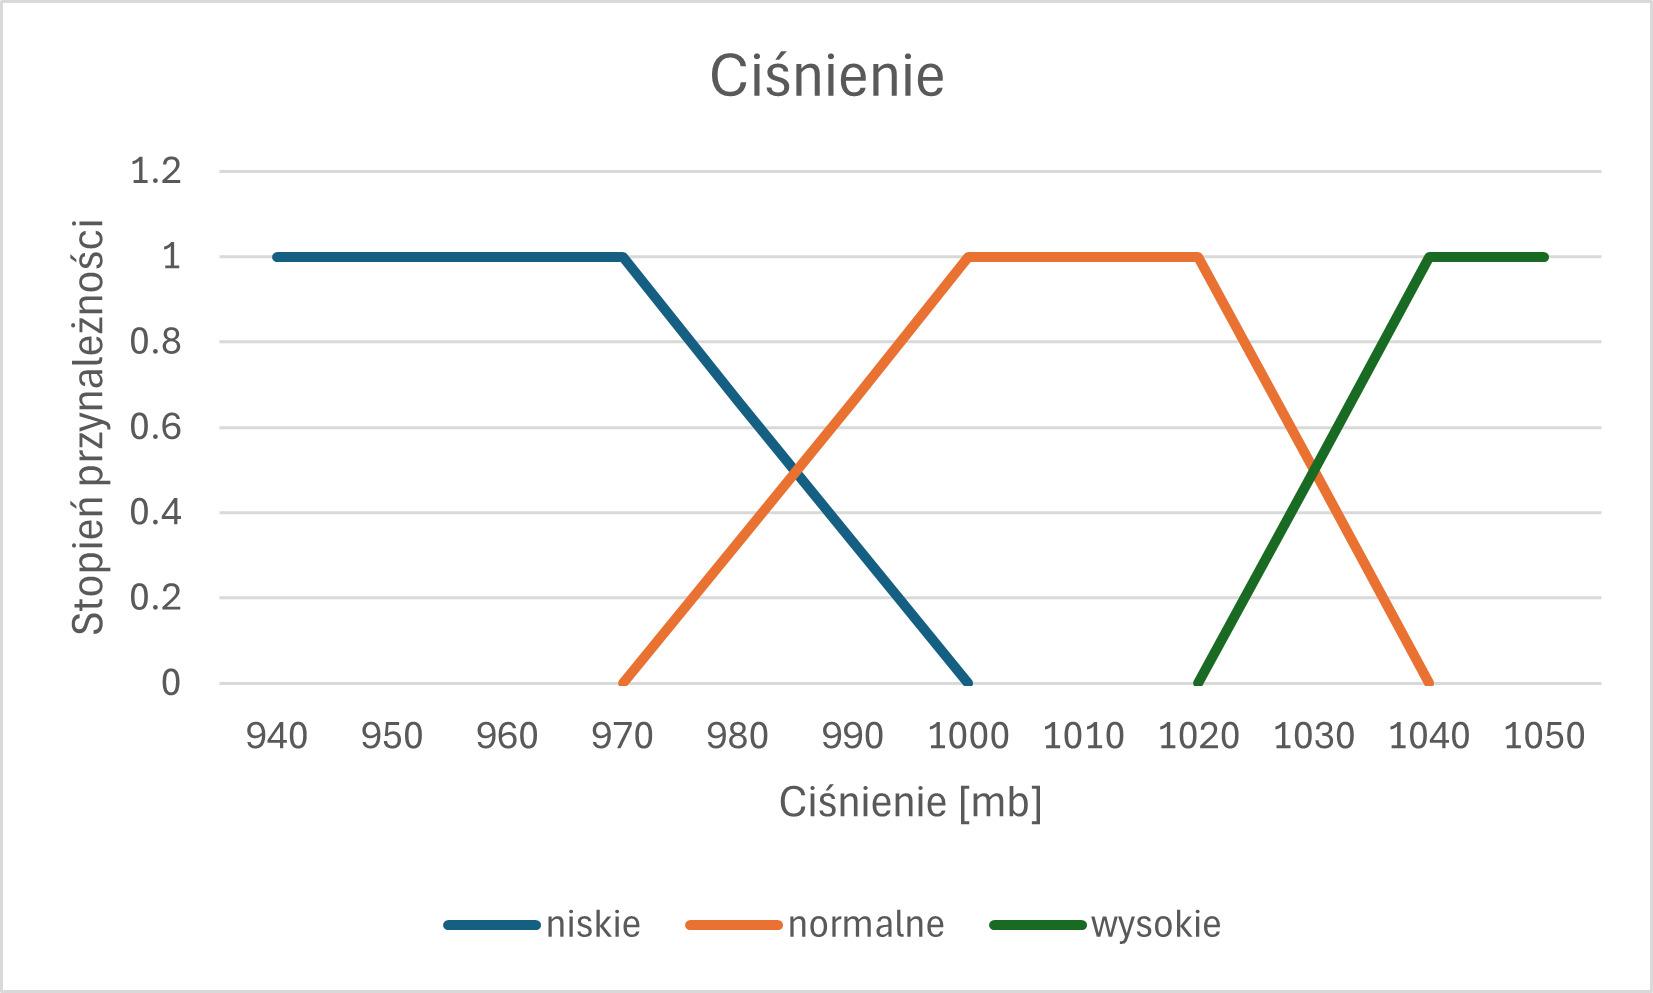
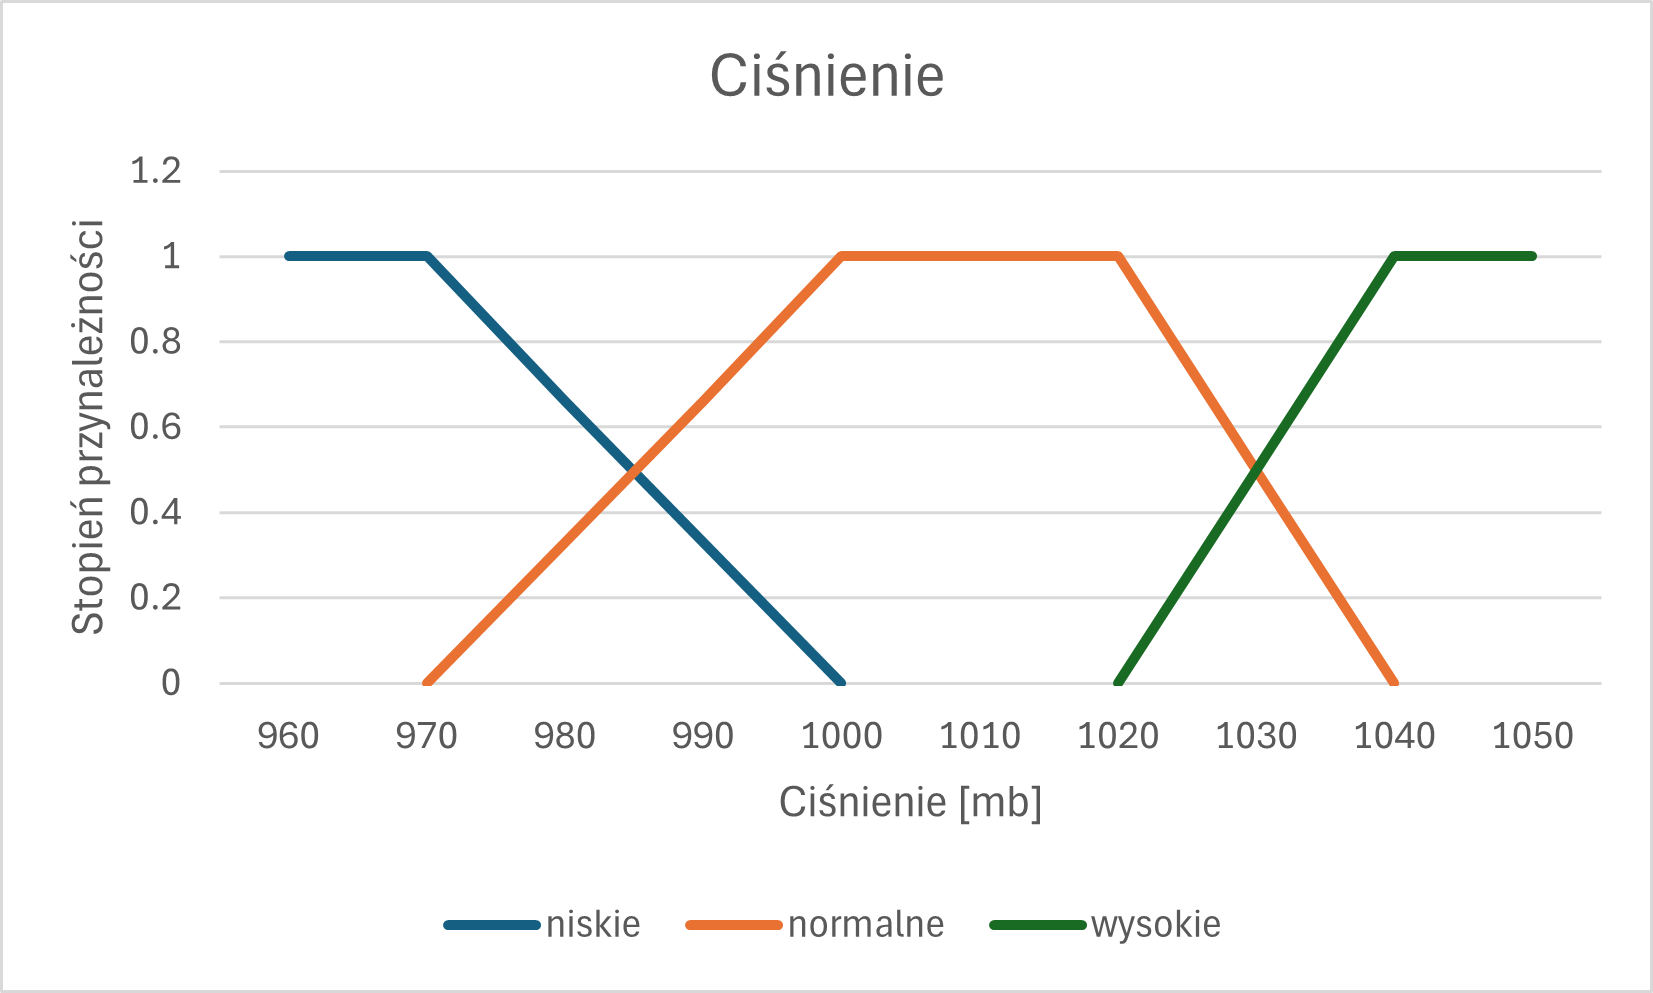
ksr -> two subject summary first form

diff --git a/KSR/Projekt2/ksr/src/main/java/ksr/zad2/KsrApplication.java b/KSR/Projekt2/ksr/src/main/java/ksr/zad2/KsrApplication.java
@@ -29,7 +29,12 @@ public class KsrApplication implements CommandLineRunner {
 	@Override
 	public void run(String... args) {
 		System.out.println("Hello World!");
+//		this.singleSubjectSummary();
+		this.twoSubjectSummary();
+	}
 
+
+	public void singleSubjectSummary() {
 		List<Measurements> allMeasurements = measurementsRepository.findAll();
 		List<Double> temperatures = new ArrayList<>();
 		List<Double> humidities = new ArrayList<>();
@@ -229,23 +234,28 @@ public class KsrApplication implements CommandLineRunner {
 			airTerms.add(airTerm);
 		}
 
+		List<Measurements> measurements = measurementsRepository.findByContinent("Europe");
+//		for (int i = 0; i < 4; i++) {
+//			System.out.println(measurements.get(i).getTimezone());
+//		}
+		System.out.println("Measurements count: " + measurements.size());
 
 		for (Quantifier quantifier : quantifierTerms) {
 			System.out.println(quantifier.getName());
 			System.out.println("--------------------------------------------------");
 //			System.out.println("TEMPERATURES:");
-			for (LinguisticTerm temperatureTerm : carbonTerms) {
-				for (LinguisticTerm dateTerm : visibilityTerms) {
-					Summary summary = new Summary(quantifier, List.of(temperatureTerm), dateTerm);
-					System.out.println(summary.summarization());
-					if (summary.getT1() > 0.01) {
-						summary.print();
-					}
-
-				}
+//			for (LinguisticTerm temperatureTerm : carbonTerms) {
+//				for (LinguisticTerm dateTerm : visibilityTerms) {
+//					SingleSubjectSummary singleSubjectSummary = new SingleSubjectSummary(quantifier, List.of(temperatureTerm), dateTerm);
+//					System.out.println(singleSubjectSummary.summarization());
+//					if (singleSubjectSummary.getT1() > 0.01) {
+//						singleSubjectSummary.print();
+//					}
+//
+//				}
 //				Summary summary = new Summary(quantifier, List.of(temperatureTerm));
 //				System.out.println(summary.summarization());
-			}
+//			}
 
 //			System.out.println("HUMIDITIES:");
 //			for (LinguisticTerm humidityTerm : humidityTerms) {
@@ -295,29 +305,87 @@ public class KsrApplication implements CommandLineRunner {
 //			}
 			System.out.println("--------------------------------------------------");
 		}
+	}
 
-//		Quantifier quantifier1 = QuantifierValues.Q1;
-//		Quantifier quantifier2 = QuantifierValues.Q2;
-//		Quantifier quantifier3 = QuantifierValues.Q3;
-//		Quantifier quantifier4 = QuantifierValues.Q4;
-//		Quantifier quantifier5 = QuantifierValues.Q5;
-//
-//
-//		LinguisticTerm summarizer1 = TempValues.goraca;
-//		summarizer1.setData(temperatures);
-//
-//		LinguisticTerm summarizer2 =HumidityValues.wilgotne;
-//		summarizer2.setData(humidities);
-//		LinguisticTerm qualifier = TimeValues.wieczorna;
-//		qualifier.setData(hours);
-//
-//		Summary summary = new Summary(quantifier2, List.of(summarizer1));
-//		System.out.println(summary.summarization());
-//
-//		Summary summary2 = new Summary(quantifier2, List.of(summarizer1, summarizer2));
-//		System.out.println(summary2.summarization());
-//
-//		Summary summary3 = new Summary(quantifier2, List.of(summarizer1), qualifier);
-//		System.out.println(summary3.summarization());
+	public void twoSubjectSummary() {
+		// Kwalifikatory
+		LinguisticVariable quatifiers = QuantifierValues.linguisticVariableQ;
+		quatifiers.addTerm(QuantifierValues.Q1.getName(), QuantifierValues.Q1.getFuzzySet());
+		quatifiers.addTerm(QuantifierValues.Q2.getName(), QuantifierValues.Q2.getFuzzySet());
+		quatifiers.addTerm(QuantifierValues.Q3.getName(), QuantifierValues.Q3.getFuzzySet());
+		quatifiers.addTerm(QuantifierValues.Q4.getName(), QuantifierValues.Q4.getFuzzySet());
+		quatifiers.addTerm(QuantifierValues.Q5.getName(), QuantifierValues.Q5.getFuzzySet());
+		List<Quantifier> quantifierTerms = new ArrayList<>();
+		quantifierTerms.add(QuantifierValues.Q1);
+		quantifierTerms.add(QuantifierValues.Q2);
+		quantifierTerms.add(QuantifierValues.Q3);
+		quantifierTerms.add(QuantifierValues.Q4);
+		quantifierTerms.add(QuantifierValues.Q5);
+
+
+		List<Measurements> europeMeasurements = measurementsRepository.findByContinent("Europe");
+		List<Measurements> asiaMeasurements = measurementsRepository.findByContinent("Asia");
+		List<Measurements> africaMeasurements = measurementsRepository.findByContinent("Africa");
+		List<Measurements> americaMeasurements = measurementsRepository.findByContinent("America");
+
+		System.out.println("Europe measurements count: " + europeMeasurements.size());
+		System.out.println("Asia measurements count: " + asiaMeasurements.size());
+		System.out.println("Africa measurements count: " + africaMeasurements.size());
+		System.out.println("America measurements count: " + americaMeasurements.size());
+
+
+		List<String> continents = List.of("Asia", "Africa", "America");
+		List<String> warmTerms = List.of("bardzo zimna", "zimna", "umiarkowana", "ciepla", "goraca");
+
+		for (Quantifier quantifier : quantifierTerms) {
+			System.out.println("Quantifier: " + quantifier.getName());
+			System.out.println("--------------------------------------------------");
+			for (String temp: warmTerms) {
+				System.out.println("Temperature: " + temp);
+				for (String continent : continents) {
+					System.out.println("Continent: " + continent);
+					LinguisticTerm linguisticTerm1 = getLinguisticTermTemp(temp, "Europe");
+					LinguisticTerm linguisticTerm2 = getLinguisticTermTemp(temp, continent);
+
+					DoubleSubjectSummary doubleSubjectSummary = new DoubleSubjectSummary(
+							quantifier,
+							"Europe",
+							"Asia",
+							linguisticTerm1,
+							linguisticTerm2
+					);
+
+					doubleSubjectSummary.firstForm();
+				}
+			}
+		}
+
+	}
+
+	public LinguisticTerm getLinguisticTermTemp(String term, String continent) {
+        LinguisticTerm linguisticTerm;
+
+		switch (term) {
+            case "bardzo zimna" -> linguisticTerm = new LinguisticTerm(TempValues.bardzoZimna.getName(), TempValues.bardzoZimna.getFuzzySet());
+            case "zimna" -> linguisticTerm = new LinguisticTerm(TempValues.zimna.getName(), TempValues.zimna.getFuzzySet());
+            case "umiarkowana" -> linguisticTerm = new LinguisticTerm(TempValues.umiarkowana.getName(), TempValues.umiarkowana.getFuzzySet());
+            case "ciepla" -> linguisticTerm = new LinguisticTerm(TempValues.ciepla.getName(), TempValues.ciepla.getFuzzySet());
+            case "goraca" -> linguisticTerm = new LinguisticTerm(TempValues.ciepla.getName(), TempValues.ciepla.getFuzzySet());
+            default -> throw new IllegalArgumentException("Unknown term: " + term);
+        }
+
+		switch (continent) {
+			case "Europe" -> linguisticTerm.setData(measurementsRepository.findByContinent("Europe").stream()
+					.map(Measurements::getTemperature_celsius).toList());
+			case "Asia" -> linguisticTerm.setData(measurementsRepository.findByContinent("Asia").stream()
+					.map(Measurements::getTemperature_celsius).toList());
+			case "Africa" -> linguisticTerm.setData(measurementsRepository.findByContinent("Africa").stream()
+					.map(Measurements::getTemperature_celsius).toList());
+			case "America" -> linguisticTerm.setData(measurementsRepository.findByContinent("America").stream()
+					.map(Measurements::getTemperature_celsius).toList());
+			default -> throw new IllegalArgumentException("Unknown continent: " + continent);
+		}
+		return linguisticTerm;
 	}
 }
+

diff --git a/KSR/Projekt2/ksr/src/main/java/ksr/zad2/fuzzy/DoubleSubjectSummary.java b/KSR/Projekt2/ksr/src/main/java/ksr/zad2/fuzzy/DoubleSubjectSummary.java
@@ -1,0 +1,58 @@
+package ksr.zad2.fuzzy;
+
+import ksr.zad2.model.Measurements;
+import lombok.Data;
+
+import java.util.List;
+
+@Data
+public class DoubleSubjectSummary {
+    private final Quantifier quantifier;
+    private final String subject1;
+    private final String subject2;
+    private final LinguisticTerm subject1Summarizer;
+    private final LinguisticTerm subject2Summarizer;
+    private LinguisticTerm qualifier;
+
+    public DoubleSubjectSummary(Quantifier quantifier, String subject1, String subject2, LinguisticTerm subject1Summarizer, LinguisticTerm subject2Summarizer) {
+        this.quantifier = quantifier;
+        this.subject1 = subject1;
+        this.subject2 = subject2;
+        this.subject1Summarizer = subject1Summarizer;
+        this.subject2Summarizer = subject2Summarizer;
+
+    }
+
+    public DoubleSubjectSummary(Quantifier quantifier, String subject1, String subject2, LinguisticTerm subject1Summarizer, LinguisticTerm subject2Summarizer, LinguisticTerm qualifier) {
+        this.quantifier = quantifier;
+        this.subject1 = subject1;
+        this.subject2 = subject2;
+        this.subject1Summarizer = subject1Summarizer;
+        this.subject2Summarizer = subject2Summarizer;
+        this.qualifier = qualifier;
+    }
+
+    public void firstForm() {
+
+        double numerator = subject1Summarizer.getFuzzySet().fuzzyCardinality(subject1Summarizer.getData()) /
+                subject1Summarizer.getData().size();
+
+        double denominator = numerator + subject2Summarizer.getFuzzySet().fuzzyCardinality(subject2Summarizer.getData()) /
+                subject2Summarizer.getData().size();
+
+        double result;
+
+        if (denominator == 0) {
+            result = 0.0;
+        } else {
+            result = quantifier.getFuzzySet().membership(numerator / denominator);
+        }
+        StringBuilder summary = new StringBuilder();
+        summary.append(quantifier.getName()).append(" ").append(subject1).append(" w porównaniu do ")
+                .append(subject2).append(" jest/ma ").append(subject1Summarizer.getName())
+                .append(" [").append(result).append("]. ");
+
+        System.out.println(summary.toString());
+
+    }
+}

diff --git a/KSR/Projekt2/ksr/src/main/java/ksr/zad2/fuzzy/SingleSubjectSummary.java b/KSR/Projekt2/ksr/src/main/java/ksr/zad2/fuzzy/SingleSubjectSummary.java
@@ -6,7 +6,7 @@ import lombok.Data;
 import java.util.List;
 
 @Data
-public class Summary {
+public class SingleSubjectSummary {
     private Quantifier quantifier;
     private List<LinguisticTerm> summarizers;
     //TODO A MOZE BYC LISTA KWALIFIKATORÓW?
@@ -14,12 +14,12 @@ public class Summary {
     private double t1, t2, t3, t4, t5, t6, t7, t8, t9, t10, t11;
     private double optimal;
 
-    public Summary(Quantifier quantifier, List<LinguisticTerm> summarizers) {
+    public SingleSubjectSummary(Quantifier quantifier, List<LinguisticTerm> summarizers) {
         this.quantifier = quantifier;
         this.summarizers = summarizers;
     }
 
-    public Summary(Quantifier quantifier, List<LinguisticTerm> summarizers, LinguisticTerm qualifier) {
+    public SingleSubjectSummary(Quantifier quantifier, List<LinguisticTerm> summarizers, LinguisticTerm qualifier) {
         this.quantifier = quantifier;
         this.summarizers = summarizers;
         this.qualifier = qualifier;

diff --git a/KSR/Projekt2/ksr/src/main/java/ksr/zad2/model/variables/VisibilityValues.java b/KSR/Projekt2/ksr/src/main/java/ksr/zad2/model/variables/VisibilityValues.java
@@ -9,19 +9,19 @@ public class VisibilityValues {
 
 
     public static LinguisticTerm slaba = new LinguisticTerm(
-            "słaba", new TrapezoidalFunction(0, 0.01, 4, 8)
+            "słaba", new TrapezoidalFunction(0, 0.01, 2, 6)
     );
 
    public static LinguisticTerm umiarkowana = new LinguisticTerm(
-            "umiarkowana", new TrapezoidalFunction(4, 8, 12, 16)
+            "umiarkowana", new TrapezoidalFunction(2, 6, 10, 14)
     );
 
 
     public static LinguisticTerm dobra = new LinguisticTerm(
-            "dobra", new TrapezoidalFunction(12, 16, 24, 28)
+            "dobra", new TrapezoidalFunction(10, 14, 18, 22)
     );
 
     public static LinguisticTerm bardzoDobra = new LinguisticTerm(
-            "bardzo dobra", new TrapezoidalFunction(24, 28, 32, 32)
+            "bardzo dobra", new TrapezoidalFunction(18, 22, 24, 24)
     );
 }

diff --git a/KSR/Projekt2/ksr/src/main/java/ksr/zad2/model/Measurements.java b/KSR/Projekt2/ksr/src/main/java/ksr/zad2/model/Measurements.java
@@ -19,13 +19,14 @@ public class Measurements {
     private Integer id;
 
     private LocalDateTime last_updated;
-    private float temperature_celsius;
-    private float wind_kph;
-    private float pressure_mb;
+    private double temperature_celsius;
+    private double wind_kph;
+    private double pressure_mb;
     private int humidity;
-    private float visibility_km;
-    private float uv_index;
-    private float air_quality_Carbon_Monoxide;
-    private float air_quality_Nitrogen_Dioxide;
+    private double visibility_km;
+    private double uv_index;
+    private double air_quality_Carbon_Monoxide;
+    private double air_quality_Nitrogen_Dioxide;
     private int air_quality_gb_defra_index;
+    private String timezone;
 }

diff --git a/KSR/Projekt2/ksr/src/main/java/ksr/zad2/model/variables/NoValues.java b/KSR/Projekt2/ksr/src/main/java/ksr/zad2/model/variables/NoValues.java
@@ -14,11 +14,11 @@ public class NoValues {
 
     // niezdrowe: rośnie 50-100, 1 na [100, 200], opada 200-250
     public static LinguisticTerm niezdrowe = new LinguisticTerm(
-            "niezdrowe", new TrapezoidalFunction(50, 100, 200, 250)
+            "niezdrowe", new TrapezoidalFunction(50, 100, 160, 210)
     );
 
     // niebezpieczne: rośnie 200-250, 1 na [250, 428]
     public static LinguisticTerm niebezpieczne = new LinguisticTerm(
-            "niebezpieczne", new TrapezoidalFunction(200, 250, 428, 428)
+            "niebezpieczne", new TrapezoidalFunction(160, 210, 261, 261)
     );
 }

diff --git a/KSR/Projekt2/ksr/src/main/java/ksr/zad2/repository/MeasurementsRepository.java b/KSR/Projekt2/ksr/src/main/java/ksr/zad2/repository/MeasurementsRepository.java
@@ -2,6 +2,12 @@ package ksr.zad2.repository;
 
 import ksr.zad2.model.Measurements;
 import org.springframework.data.jpa.repository.JpaRepository;
+import org.springframework.data.jpa.repository.Query;
+import org.springframework.data.repository.query.Param;
+
+import java.util.List;
 
 public interface MeasurementsRepository extends JpaRepository<Measurements, Integer> {
+    @Query("SELECT m FROM Measurements m WHERE m.timezone LIKE :continent%")
+    List<Measurements> findByContinent(@Param("continent") String continent);
 }

diff --git a/KSR/Projekt2/ksr/src/main/java/ksr/zad2/model/variables/WindValues.java b/KSR/Projekt2/ksr/src/main/java/ksr/zad2/model/variables/WindValues.java
@@ -21,11 +21,11 @@ public class WindValues {
     );
 
     public static LinguisticTerm bardzoSilny = new LinguisticTerm(
-            "bardzo_silny", new TriangularFunction(40, 60, 80)
+            "bardzo_silny", new TriangularFunction(40, 60, 75)
     );
 
     public static LinguisticTerm gwaltowny = new LinguisticTerm(
-            "gwałtowny", new TrapezoidalFunction(60, 80, 92, 92)  // trójkąt z prawej ramki ściętej
+            "gwałtowny", new TrapezoidalFunction(60, 75, 81, 81)
     );
 
 }

diff --git a/KSR/Projekt2/ksr/src/main/java/ksr/zad2/model/variables/PressureValues.java b/KSR/Projekt2/ksr/src/main/java/ksr/zad2/model/variables/PressureValues.java
@@ -8,7 +8,7 @@ public class PressureValues {
     public static LinguisticVariable pressureVariable = new LinguisticVariable("Ciśnienie", 947.0, 1052.0);
 
     public static LinguisticTerm niskie = new LinguisticTerm(
-            "niskie", new TrapezoidalFunction(947, 947, 970, 1000)
+            "niskie", new TrapezoidalFunction(964, 964, 970, 1000)
     );
 
     public static LinguisticTerm normalne = new LinguisticTerm(
